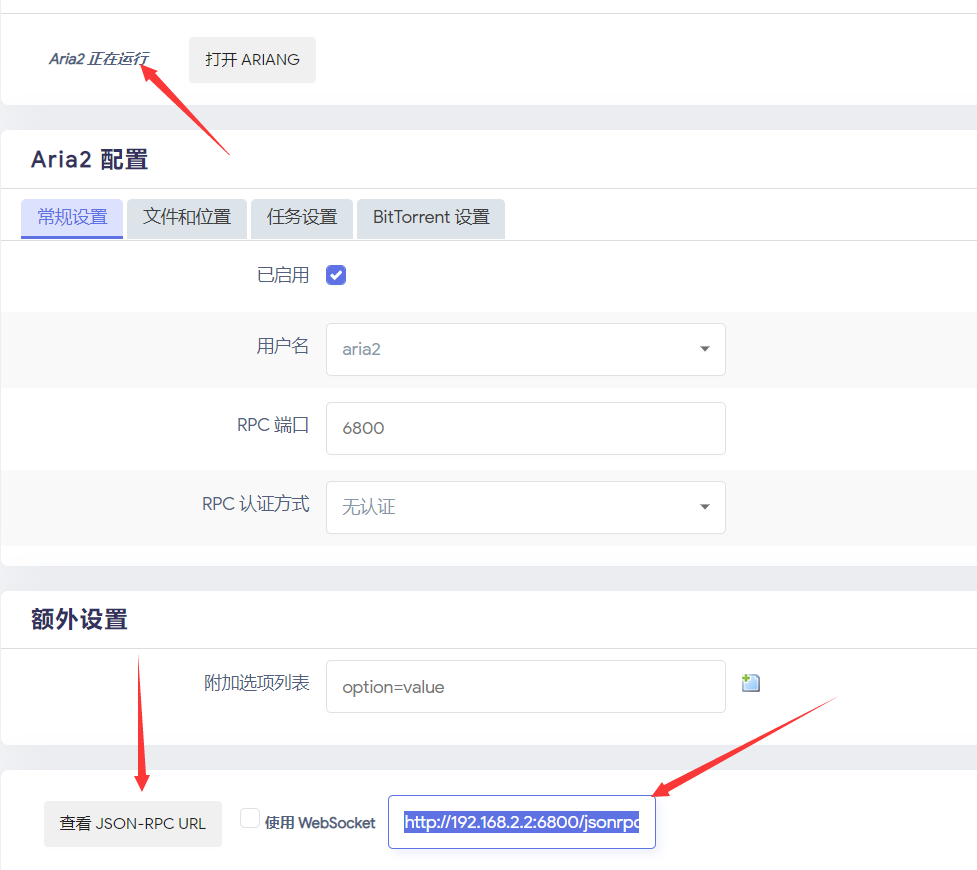
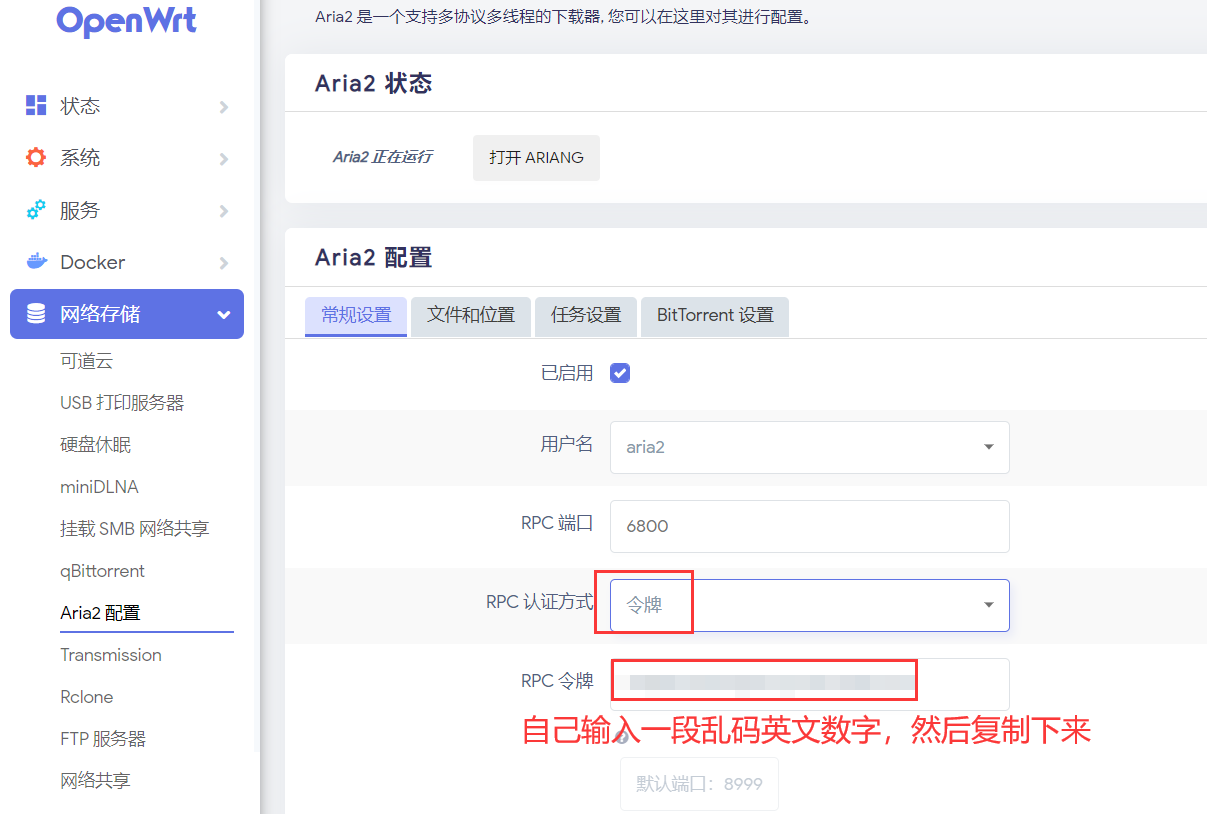
Submit updated tutorial

diff --git a/docs/zh/guide/cloudapp.md b/docs/zh/guide/cloudapp.md
@@ -11,8 +11,114 @@
   
   ![CloudApp](./cloudapp/cloudapp.jpeg)
 
+## 1.玩转Aria2远程下载
+
+### Aria2配置：OpenWrt
+1.首先确定你的路由等设备安装好了Aria2。
   
-## 1.玩转远程SSH
+2.启用Aria2，RPC认证方式选令牌，然后自己输入一段英文数字乱码当作密钥，并复制下来(后面要用)，然后设置好下载目录，提交。
+   
+  PS：OpenWrt的RPC认证方式可选无，直接提交启用，然后跳转到“远程配置”，去设置远程下载。 
+  
+  ![Aria2](./cloudapp/cloudapp-aria2-2.jpeg)
+  
+  ![Aria2](./cloudapp/cloudapp-aria2-1.jpeg)
+
+3.启用成功后，点击AriaNg控制台，并进入。
+
+  ![Aria2](./cloudapp/cloudapp-op.jpeg)
+
+4. 进入AriaNg控制台，会发现状态未连接，那我们就来设置：先点击AriaNg设置，再点击RPC，地址填入路由IP，再填入密钥，重载界面就发现已经连接了。
+ 
+  ![Aria2](./cloudapp/cloudapp-aria2-lede4.jpeg)
+
+  ![Aria2](./cloudapp/cloudapp-aria2-lede5.jpeg)  
+  
+5.然后跳转到“远程配置”，去设置远程下载。 
+
+
+### Aria2配置：KS LEDE
+1.在酷软中心安装Aria2。
+
+  ![Aria2](./cloudapp/cloudapp-aria2-lede1.jpeg)
+
+2.设置好下载目录，并启用Aria2和开启RPC访问密钥，提交以后复制密钥(后面要用)。
+
+  ![Aria2](./cloudapp/cloudapp-aria2-lede2.jpeg)
+  
+3.启用成功后，点击AriaNg控制台，并进入。
+
+  ![Aria2](./cloudapp/cloudapp-aria2-lede3.jpeg)
+
+4. 进入AriaNg控制台，会发现状态未连接，那我们就来设置：先点击AriaNg设置，再点击RPC，地址填入路由IP，再填入密钥，重载界面就发现已经连接了。
+ 
+  ![Aria2](./cloudapp/cloudapp-aria2-lede4.jpeg)
+
+  ![Aria2](./cloudapp/cloudapp-aria2-lede5.jpeg)
+
+5.然后跳转到“远程配置”，去设置远程下载。   
+
+  
+### Aria2配置：KS 梅林
+1.在软件中心安装Aria2。
+
+  ![Aria2](./cloudapp/cloudapp-aria2-ml1.jpeg)
+
+2.开启Aria2和远程穿透连接，然后会自动配置RPC。
+  
+  ![Aria2](./cloudapp/cloudapp-aria2-ml2.jpeg)
+
+3.点击RPC设定，然后复制RPC密码/token(后面要用)。
+  
+  ![Aria2](./cloudapp/cloudapp-aria2-ml3.jpeg)
+
+4.然后跳转到“远程配置”，去设置远程下载。
+
+   
+### Aria2配置：群晖
+
+TODO
+
+### Aria2配置：威联通
+
+TODO
+
+### Aria2配置：爱快/Docker
+
+TODO
+
+### Aria2配置：老毛子Padavan
+
+TODO
+
+### Aria2配置：ReadyNAS
+ 
+TODO 
+
+ 
+### 远程配置  
+1.在ddnsto可用应用列表中点击添加远程Aria2。
+
+  填入RPC地址(格式为：路由IP:6800，比如http://192.168.2.2:6800/jsonrpc)
+  
+  password为前面复制的RPC密码/token(如果没RPC密码可不填，比如OpenWrt可不设置，就能远程)。
+  
+  ![Aria2](./cloudapp/cloudapp-aria2-3.jpeg)
+
+2.在已添加中找到刚添加的远程应用，点击即可进入Aria2操作界面。
+  
+  ![Aria2](./cloudapp/cloudapp-aria2-4.jpeg)
+
+  ![Aria2](./cloudapp/cloudapp-aria2-5.jpeg)
+
+3.Aria2操作界面新建填入要下载资源的地址即可远程下载了。 
+ 
+  ![Aria2](./cloudapp/cloudapp-aria2-6.jpeg) 
+  
+  ![Aria2](./cloudapp/cloudapp-aria2-7.jpeg)
+   
+  
+## 2.玩转远程SSH
 1.首先确定你的路由等设备开启了SSH。
 
 2.在可用应用列表中点击添加远程SSH。
@@ -30,7 +136,7 @@
   ![SSH](./cloudapp/cloudapp-ssh3.jpeg)
  
  
-## 2.玩转远程Telnet
+## 3.玩转远程Telnet
 1.首先确定你的路由等设备开启了Telnet。
 
 2.在可用应用列表中点击添加远程Telnet。
@@ -46,38 +152,6 @@
   ![Telnet](./cloudapp/cloudapp-telnet2.jpeg)
 
   
-## 3玩转Aria2远程下载
-
-### OpenWrt为例
-1.首先确定你的路由等设备安装好了Aria2。
-  
-2.配置好下载目录后启用Aria2。
-  
-  PS：Aria2基本就是默认设置，确定好下载目录就好！
-  
-  ![Aria2](./cloudapp/cloudapp-aria2-1.jpeg)
-
-3.确定Aria2已经启用，然后查看JSON-RPC URL，然后复制地址。 
-  
-  ![Aria2](./cloudapp/cloudapp-aria2-2.jpeg)
-
-4.在ddnsto可用应用列表中点击添加远程Aria2。
-
-  ![Aria2](./cloudapp/cloudapp-aria2-3.jpeg)
-
-5.在已添加中找到刚添加的远程应用，点击即可进入Aria2操作界面。
-  
-  ![Aria2](./cloudapp/cloudapp-aria2-4.jpeg)
-  
-  ![Aria2](./cloudapp/cloudapp-aria2-5.jpeg)
-
-6.Aria2操作界面新建填入地址即可远程下载了。 
- 
-  ![Aria2](./cloudapp/cloudapp-aria2-6.jpeg) 
-  
-  ![Aria2](./cloudapp/cloudapp-aria2-7.jpeg)
- 
- 
 ## 4.玩转Windows RDP远程
 
   ![Windows远程](./cloudapp/cloudapp-rdp.jpeg)
